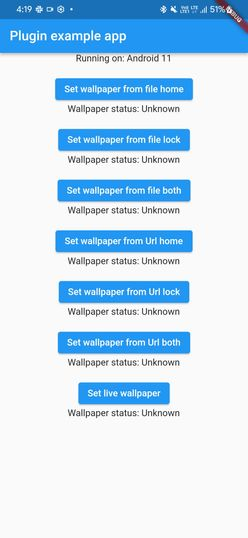
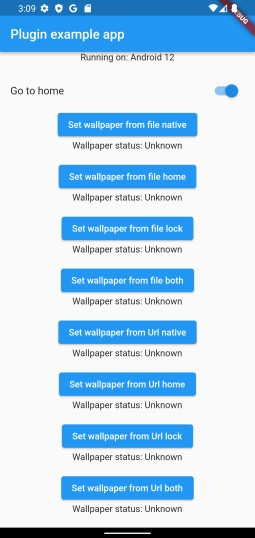
update changelog & documentation

diff --git a/README.md b/README.md
@@ -15,7 +15,6 @@ and the Flutter guide for
 
 <p align="center">A flutter package which contains a collection of some functions to set wallpaper on your Android device asynchronously. With this plugin you can also set video live wallpapers (.mp4) natively.</p><br>
 
-
 <p align="center">
   <a href="https://flutter.dev">
     <img src="https://img.shields.io/badge/Platform-Flutter-02569B?logo=flutter"
@@ -35,18 +34,19 @@ and the Flutter guide for
   </a>
 </p><br>
 
- 
-
 | ![Example](https://raw.githubusercontent.com/codenameakshay/async_wallpaper/main/screenshots/demo.gif)  | ![Example App](https://raw.githubusercontent.com/codenameakshay/async_wallpaper/main/screenshots/image.jpg)  |
 |---|---|
 |  **Example in another app** |  **Example app screenshot** |
+
 ## Features
+
 The package allows you to set wallpaper on your Android device asynchronously, in the following ways.
 
- - Set wallpaper from a file path
- - Set wallpaper from a URL
- - Set wallpaper from a video file (file path)
- - Can select locations (HOME, LOCK, BOTH)
+- Set wallpaper from a file path
+- Set wallpaper from a URL
+- Set wallpaper from a video file (file path)
+- Can select locations (HOME, LOCK, BOTH)
+- Minimise your app and go to Android home screen
 
 ## Installing
 
@@ -56,7 +56,7 @@ Add this to your package's `pubspec.yaml` file:
 
 ```yaml
 dependencies:
-  async_wallpaper: ^1.0.0
+  async_wallpaper: ^2.0.0
 ```
 
 ### 2. Install it
@@ -65,14 +65,14 @@ You can install packages from the command line:
 
 with `pub`:
 
-```
-$ pub get
+```bash
+pub get
 ```
 
 with `Flutter`:
 
-```
-$ flutter pub get
+```bash
+flutter pub get
 ```
 
 ### 3. Import it
@@ -90,14 +90,20 @@ When you want to set wallpaper simply use it like:
 
 ```dart
 await AsyncWallpaper.setWallpaperFromFile(
-          file.path, AsyncWallpaper.HOME_SCREEN);
+    filePath: file.path,
+    wallpaperLocation: AsyncWallpaper.HOME_SCREEN,
+    goToHome: goToHome,
+);
 ```
 
-It needs two positional arguments - 
+It needs three arguments -
+
 - `filePath` – the path of the file to set as wallpaper
 - `wallpaperLocation` – the location where you want to set the wallpaper
+- `goToHome` – a bool, which redirects your app to home screen when wallpaper is set
 
-AsyncWallpaper has three locations predefined - 
+AsyncWallpaper has three locations predefined -
+
 - `HOME_SCREEN` – set wallpaper on home screen
 - `LOCK_SCREEN` – set wallpaper on lock screen
 - `BOTH_SCREENS` – set wallpaper on both home and lock screen
@@ -117,13 +123,19 @@ It returns the platform version of the device. Useful for all the Android 11, 12
 ## setWallpaperFromFile
 
 Setting wallpaper from a file path, on home screen.
+
 ```dart
 String result;
 var file = await DefaultCacheManager().getSingleFile(url);
 // Platform messages may fail, so we use a try/catch PlatformException.
 try {
     result = await AsyncWallpaper.setWallpaperFromFile(
-          file.path, AsyncWallpaper.HOME_SCREEN);
+    filePath: file.path,
+    wallpaperLocation: AsyncWallpaper.HOME_SCREEN,
+    goToHome: goToHome,
+    )
+        ? 'Wallpaper set'
+        : 'Failed to get wallpaper.';
 } on PlatformException {
     result = 'Failed to get wallpaper.';
 }
@@ -131,13 +143,19 @@ try {
 ```
 
 Setting wallpaper from a file path, on lock screen.
+
 ```dart
 String result;
 var file = await DefaultCacheManager().getSingleFile(url);
 // Platform messages may fail, so we use a try/catch PlatformException.
 try {
     result = await AsyncWallpaper.setWallpaperFromFile(
-          file.path, AsyncWallpaper.LOCK_SCREEN);
+    filePath: file.path,
+    wallpaperLocation: AsyncWallpaper.LOCK_SCREEN,
+    goToHome: goToHome,
+    )
+        ? 'Wallpaper set'
+        : 'Failed to get wallpaper.';
 } on PlatformException {
     result = 'Failed to get wallpaper.';
 }
@@ -145,13 +163,19 @@ try {
 ```
 
 Setting wallpaper from a file path, on both screens.
+
 ```dart
 String result;
 var file = await DefaultCacheManager().getSingleFile(url);
 // Platform messages may fail, so we use a try/catch PlatformException.
 try {
     result = await AsyncWallpaper.setWallpaperFromFile(
-          file.path, AsyncWallpaper.BOTH_SCREENS);
+    filePath: file.path,
+    wallpaperLocation: AsyncWallpaper.BOTH_SCREENS,
+    goToHome: goToHome,
+    )
+        ? 'Wallpaper set'
+        : 'Failed to get wallpaper.';
 } on PlatformException {
     result = 'Failed to get wallpaper.';
 }
@@ -163,12 +187,18 @@ try {
 ## setWallpaper
 
 Setting wallpaper from a url, on home screen.
+
 ```dart
 String result;
 // Platform messages may fail, so we use a try/catch PlatformException.
 try {
     result = await AsyncWallpaper.setWallpaper(
-          url, AsyncWallpaper.HOME_SCREEN);
+    url: url,
+    wallpaperLocation: AsyncWallpaper.HOME_SCREEN,
+    goToHome: goToHome,
+    )
+        ? 'Wallpaper set'
+        : 'Failed to get wallpaper.';
 } on PlatformException {
     result = 'Failed to get wallpaper.';
 }
@@ -176,12 +206,18 @@ try {
 ```
 
 Setting wallpaper from a url, on lock screen.
+
 ```dart
 String result;
 // Platform messages may fail, so we use a try/catch PlatformException.
 try {
     result = await AsyncWallpaper.setWallpaper(
-          url, AsyncWallpaper.LOCK_SCREEN);
+    url: url,
+    wallpaperLocation: AsyncWallpaper.LOCK_SCREEN,
+    goToHome: goToHome,
+    )
+        ? 'Wallpaper set'
+        : 'Failed to get wallpaper.';
 } on PlatformException {
     result = 'Failed to get wallpaper.';
 }
@@ -189,17 +225,24 @@ try {
 ```
 
 Setting wallpaper from a url, on both screens.
+
 ```dart
 String result;
 // Platform messages may fail, so we use a try/catch PlatformException.
 try {
     result = await AsyncWallpaper.setWallpaper(
-          url, AsyncWallpaper.BOTH_SCREENS);
+    url: url,
+    wallpaperLocation: AsyncWallpaper.BOTH_SCREENS,
+    goToHome: goToHome,
+    )
+        ? 'Wallpaper set'
+        : 'Failed to get wallpaper.';
 } on PlatformException {
     result = 'Failed to get wallpaper.';
 }
 
 ```
+
 ## setLiveWallpaper
 
 Setting live wallpaper requires `.mp4` file. Also currently local files are only supported, so download it before calling this function. The method call redirect to native Android live wallpaper setting intent, so no locations are currently supported.
@@ -210,7 +253,11 @@ var file = await DefaultCacheManager().getSingleFile(liveUrl);
 // Platform messages may fail, so we use a try/catch PlatformException.
 try {
     result = await AsyncWallpaper.setLiveWallpaper(
-          file.path);
+    filePath: file.path,
+    goToHome: goToHome,
+    )
+        ? 'Wallpaper set'
+        : 'Failed to get wallpaper.';
 } on PlatformException {
     result = 'Failed to get wallpaper.';
 }
@@ -224,4 +271,3 @@ try {
 If you encounter any problems feel free to open an [issue](https://github.com/codenameakshay/async_wallpaper/issues/new?template=bug_report.md). If you feel the library is missing a feature, please raise a [ticket](https://github.com/codenameakshay/async_wallpaper/issues/new?template=feature_request.md) on GitHub and I'll look into it. Pull request are also welcome.
 
 See [Contributing.md](https://github.com/codenameakshay/async_wallpaper/blob/master/CONTRIBUTING.md).
-

diff --git a/CHANGELOG.md b/CHANGELOG.md
@@ -1,3 +1,11 @@
+## 2.0.0
+
+* Add support for Android 13
+* Add a new bool parameter `goToHome` to all methods
+* Breaking change - All methods now return a bool instead of String, to make error handling easier
+* Breaking change - All methods now accept named parameters instead of positional parameters
+* Fixed documentation
+
 ## 1.0.1
 
 * Add support for Android 12
@@ -7,6 +15,7 @@
 
 * Fixed documentation
 * Add example gif, and screenshot
+
 ## 1.0.0
 
 * Initial release
